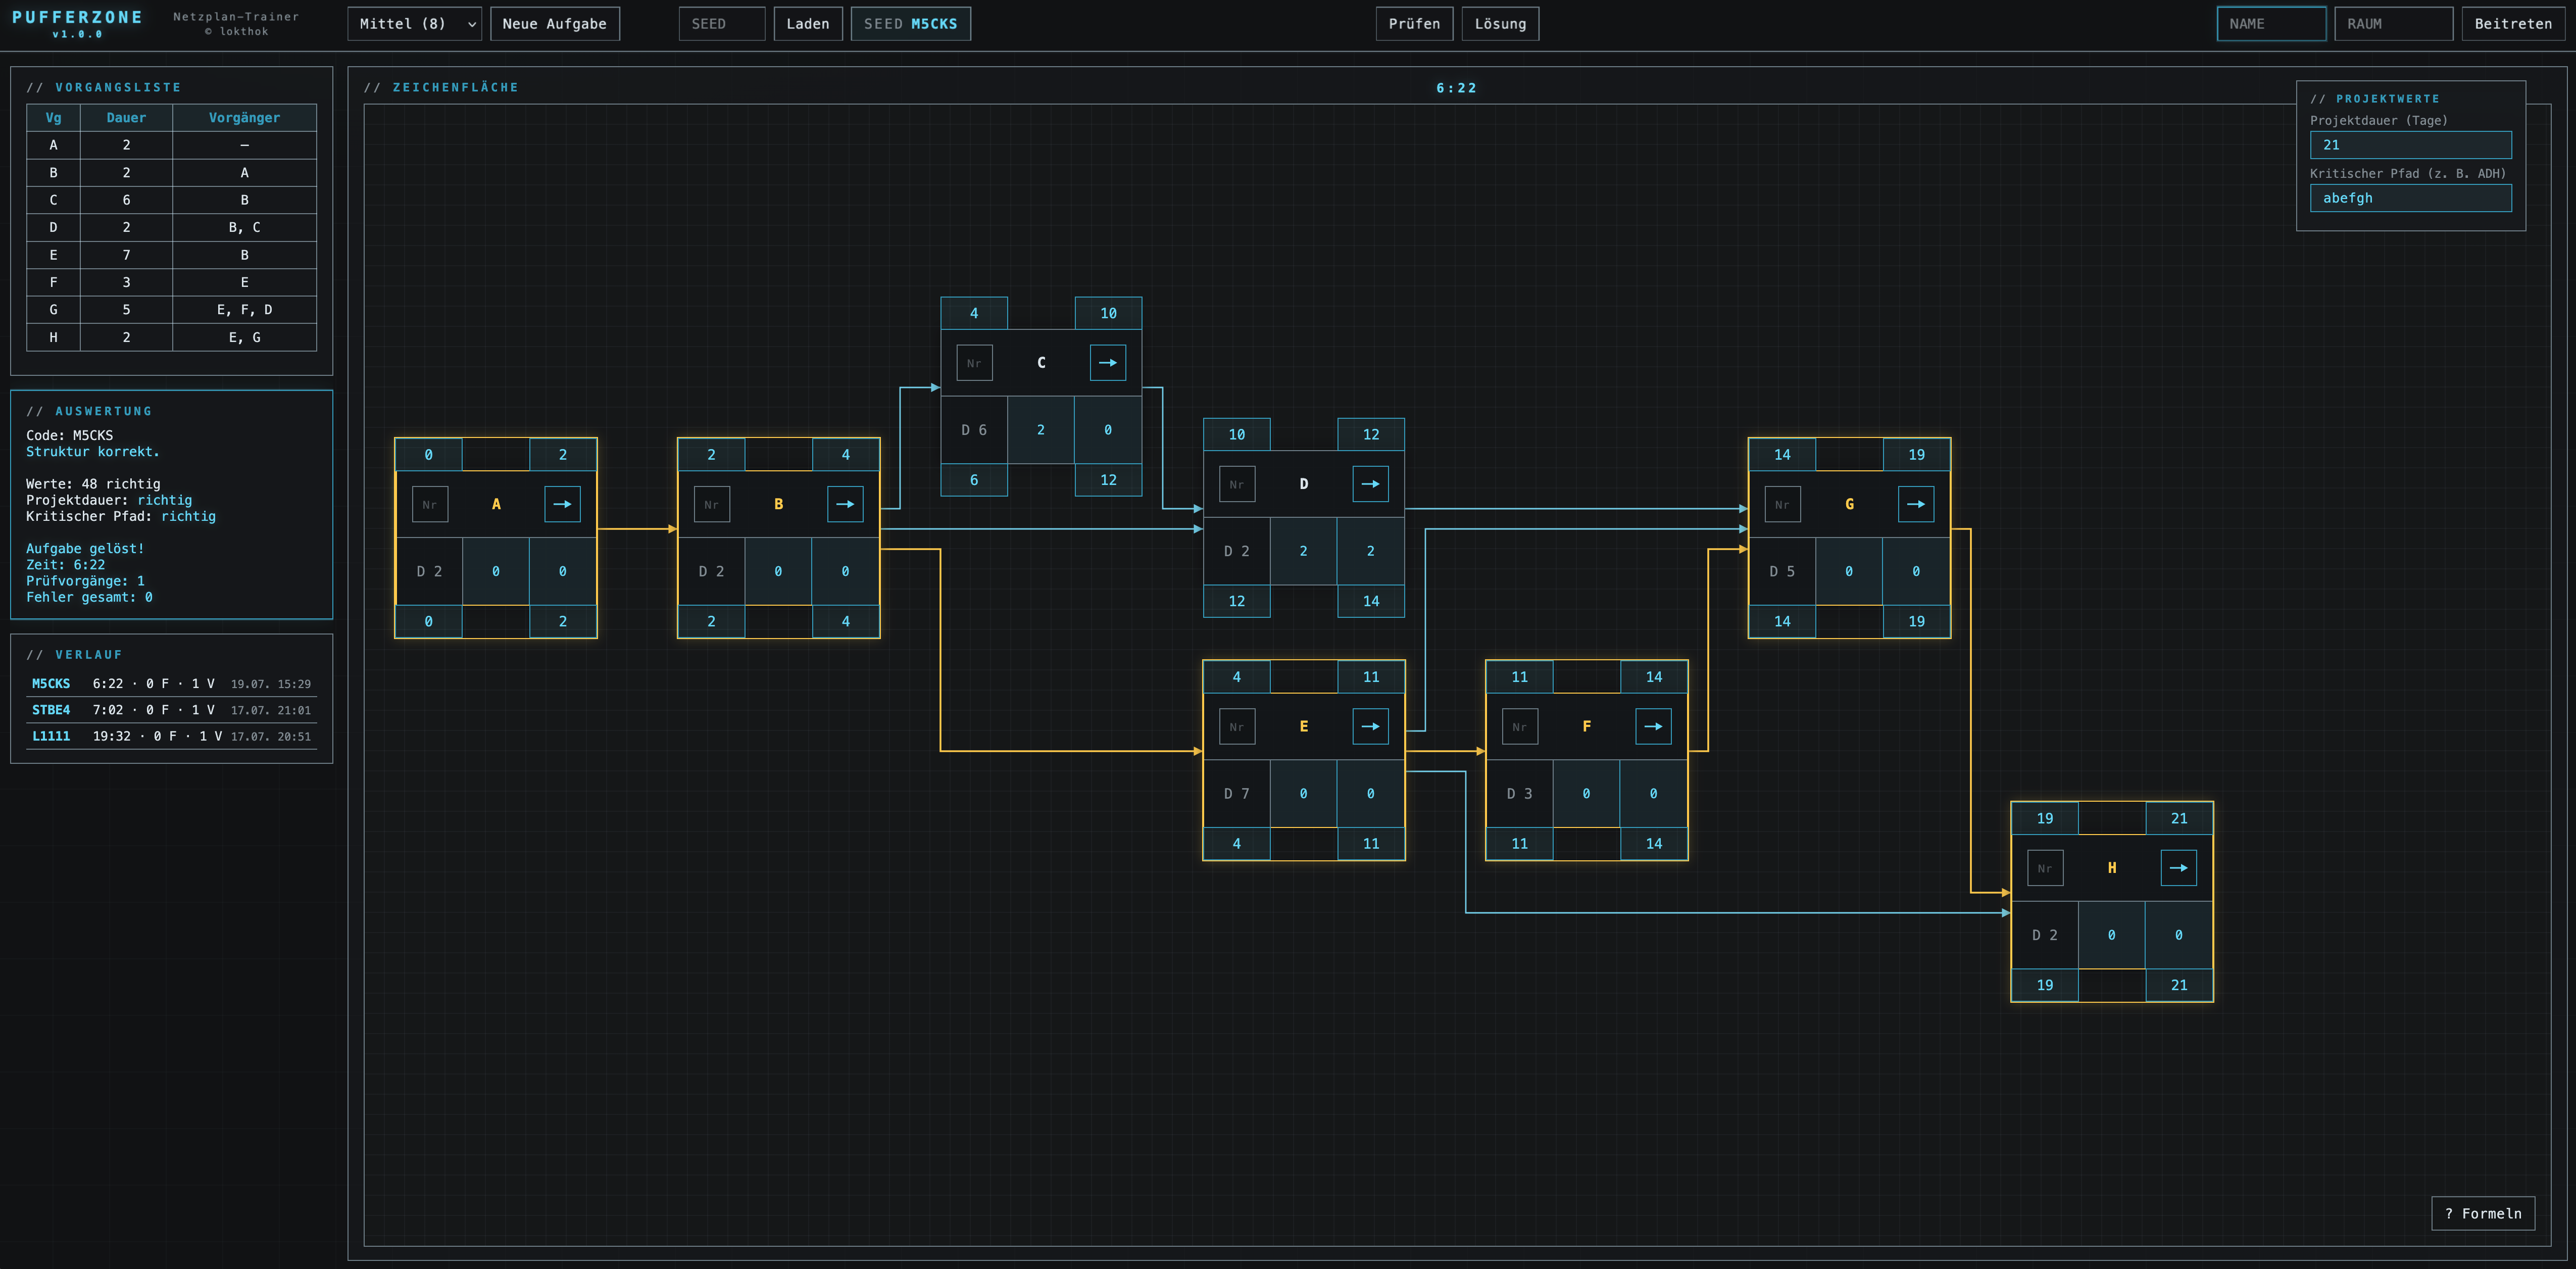
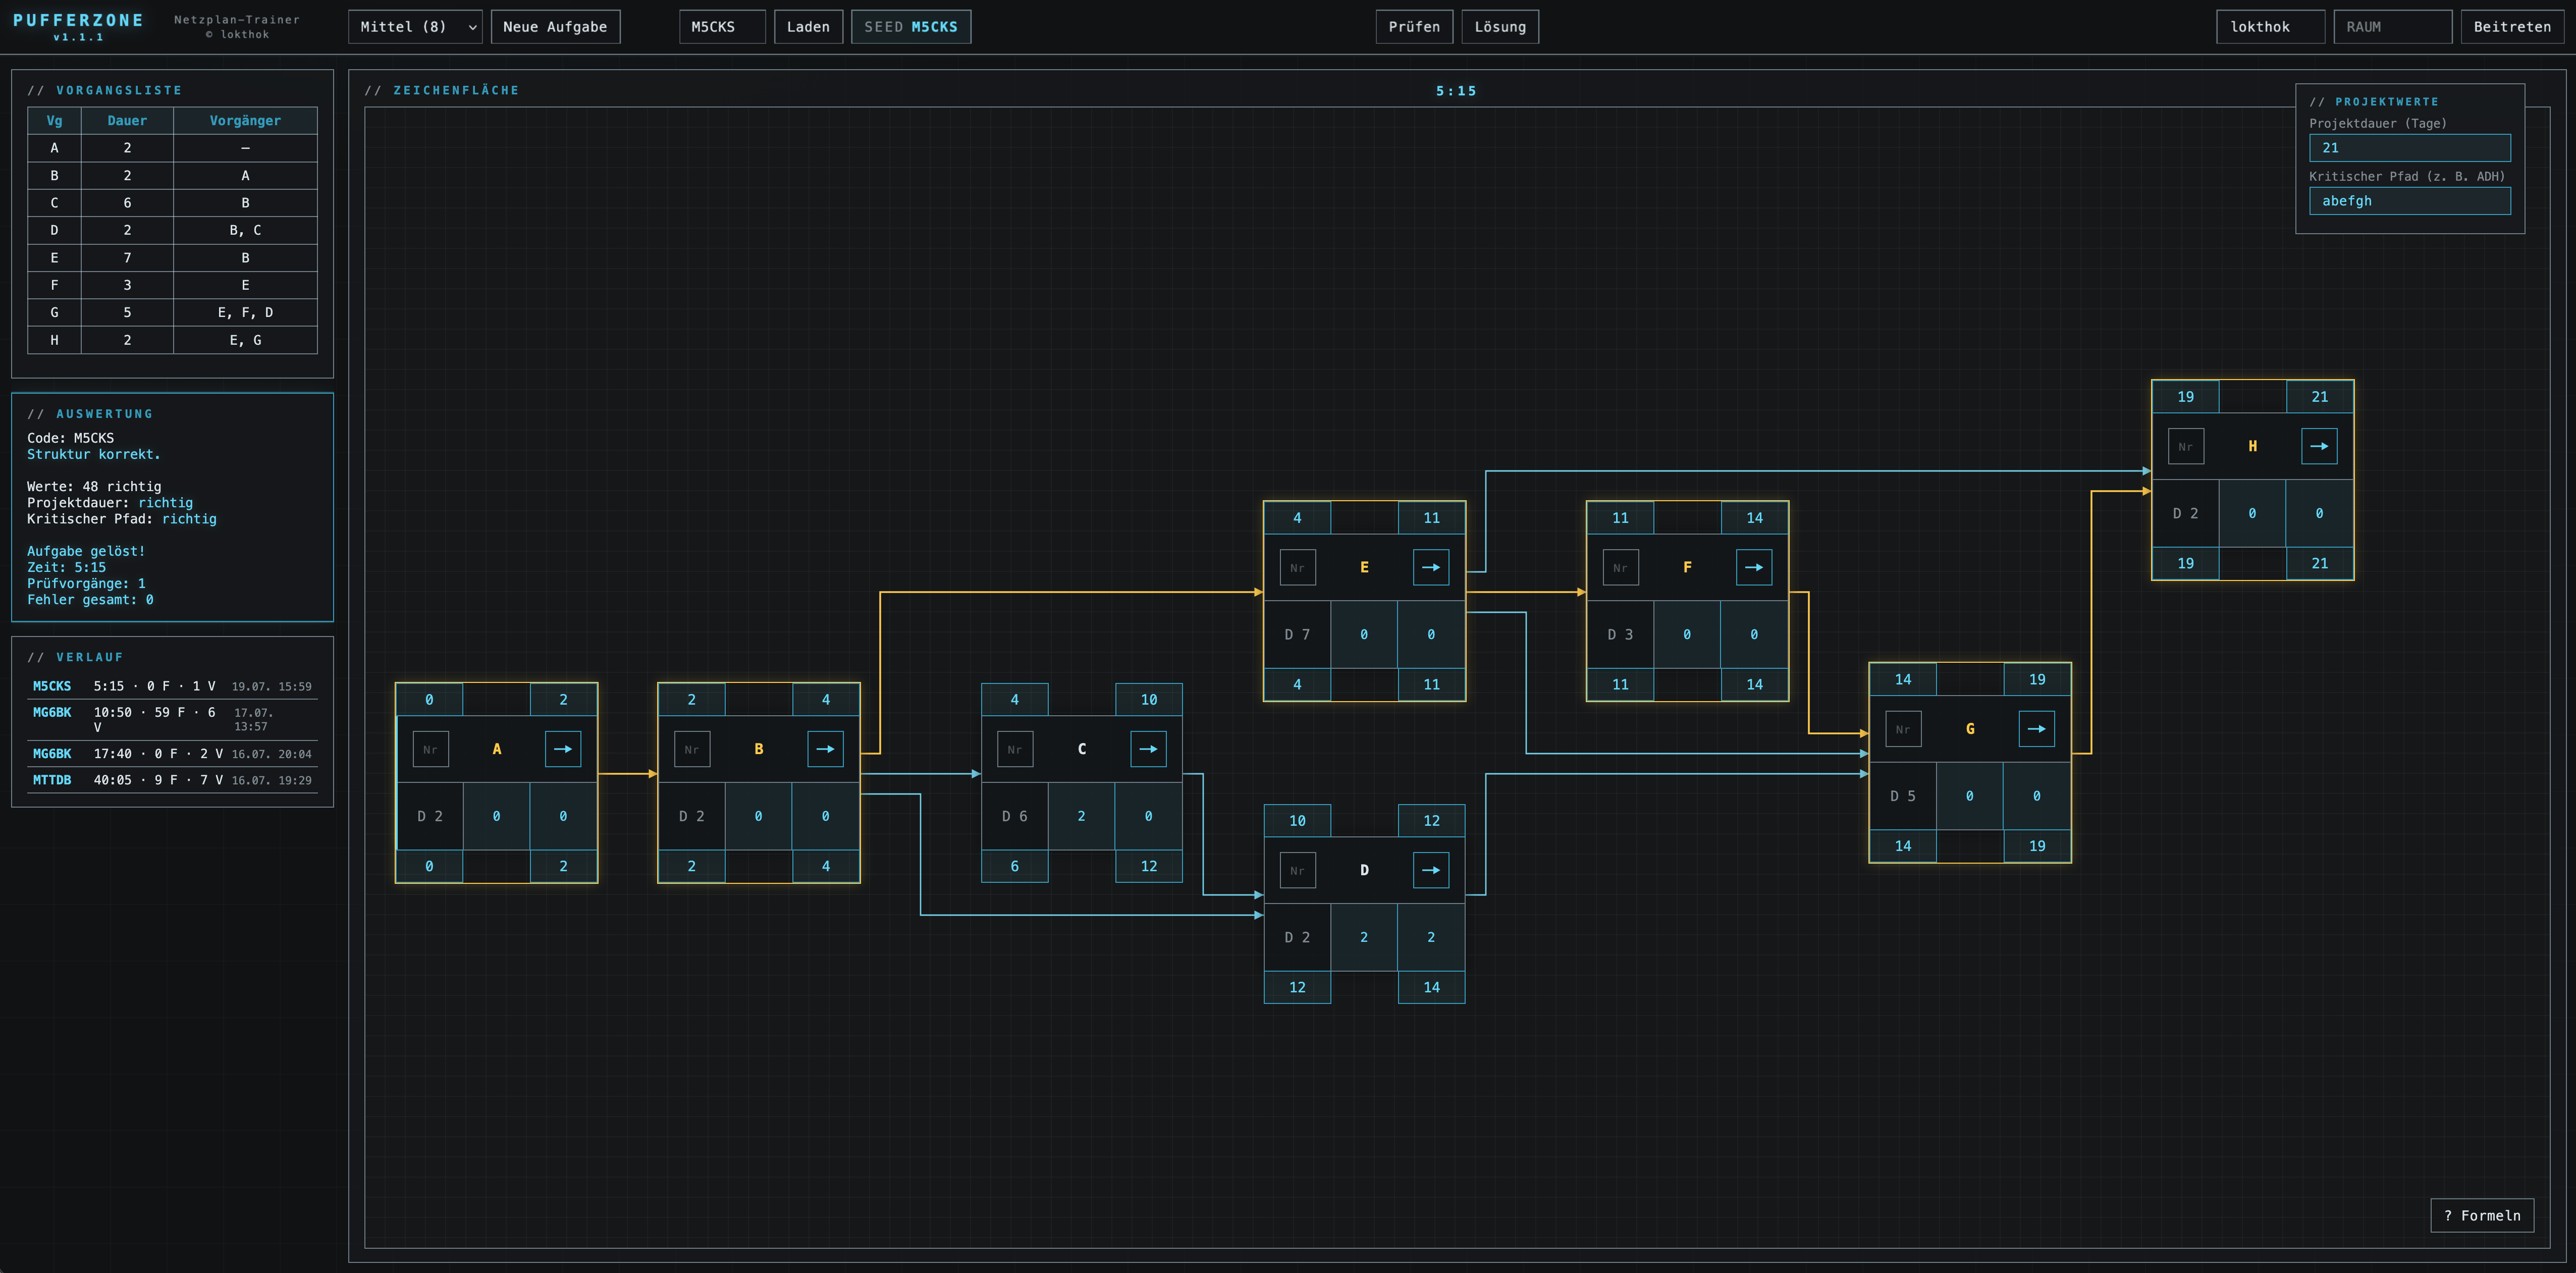
PUFFERZONE 1.1.1 – Fix Goldrahmen im Knoteninneren, neuer Screenshot

diff --git a/pufferzone.html b/pufferzone.html
@@ -1,5 +1,5 @@
 <!--
-  PUFFERZONE v1.1.0 - Netzplan-Trainer (Vorgangsknotennetz)
+  PUFFERZONE v1.1.1 - Netzplan-Trainer (Vorgangsknotennetz)
   Copyright (c) 2026 lokthok
   Lizenz: GNU Affero General Public License v3.0 (AGPL-3.0)
   https://github.com/lokthok/pufferzone
@@ -152,7 +152,6 @@ th{background:var(--accent-soft);font-weight:600;color:var(--accent-dim)}
 .node input.miss{border:1px dashed var(--orange)!important;background:var(--orange-soft)}
 .node.start .box{border-left:2px solid var(--accent);
   box-shadow:-4px 0 7px -4px rgba(111,220,247,.28),0 0 14px rgba(0,0,0,.5)}
-.node.crit .box{border-color:var(--gold)}
 .node.crit .box::after{content:"";position:absolute;inset:-1px;
   border:1px solid var(--gold);box-shadow:0 0 12px rgba(255,208,86,.28);
   pointer-events:none;z-index:3}
@@ -299,7 +298,7 @@ th{background:var(--accent-soft);font-weight:600;color:var(--accent-dim)}
 </main>
 <script>
 "use strict";
-const APP_VERSION="1.1.0";
+const APP_VERSION="1.1.1";
 document.getElementById("appVer").textContent="v"+APP_VERSION;
 const NAMES="ABCDEFGHIJKL";
 const DIFF={L:6,M:8,S:10};

diff --git a/CHANGELOG.md b/CHANGELOG.md
@@ -1,5 +1,9 @@
 # Changelog
 
+## v1.1.1 (2026-07-19)
+
+- Gold-Markierung: doppelte Rahmenfärbung im Knoteninneren entfernt, nur noch durchgehendes Overlay und goldener Buchstabe
+
 ## v1.1.0 (2026-07-19)
 
 - Kritischer Pfad wird nach vollständiger Lösung in Gold hervorgehoben (Knoten und Pfeile)

diff --git a/README.md b/README.md
@@ -46,7 +46,7 @@ Merkregel: vorwärts MAXIMUM, rückwärts MINIMUM. Kritischer Pfad: durchgehende
 
 ## Versionen
 
-Aktuelle Version: **1.1.0**. Details siehe [CHANGELOG.md](CHANGELOG.md). Releases werden als Git-Tags geführt, versionierte Einzeldateien liegen bei den GitHub Releases.
+Aktuelle Version: **1.1.1**. Details siehe [CHANGELOG.md](CHANGELOG.md). Releases werden als Git-Tags geführt, versionierte Einzeldateien liegen bei den GitHub Releases.
 
 ## Lizenz
 